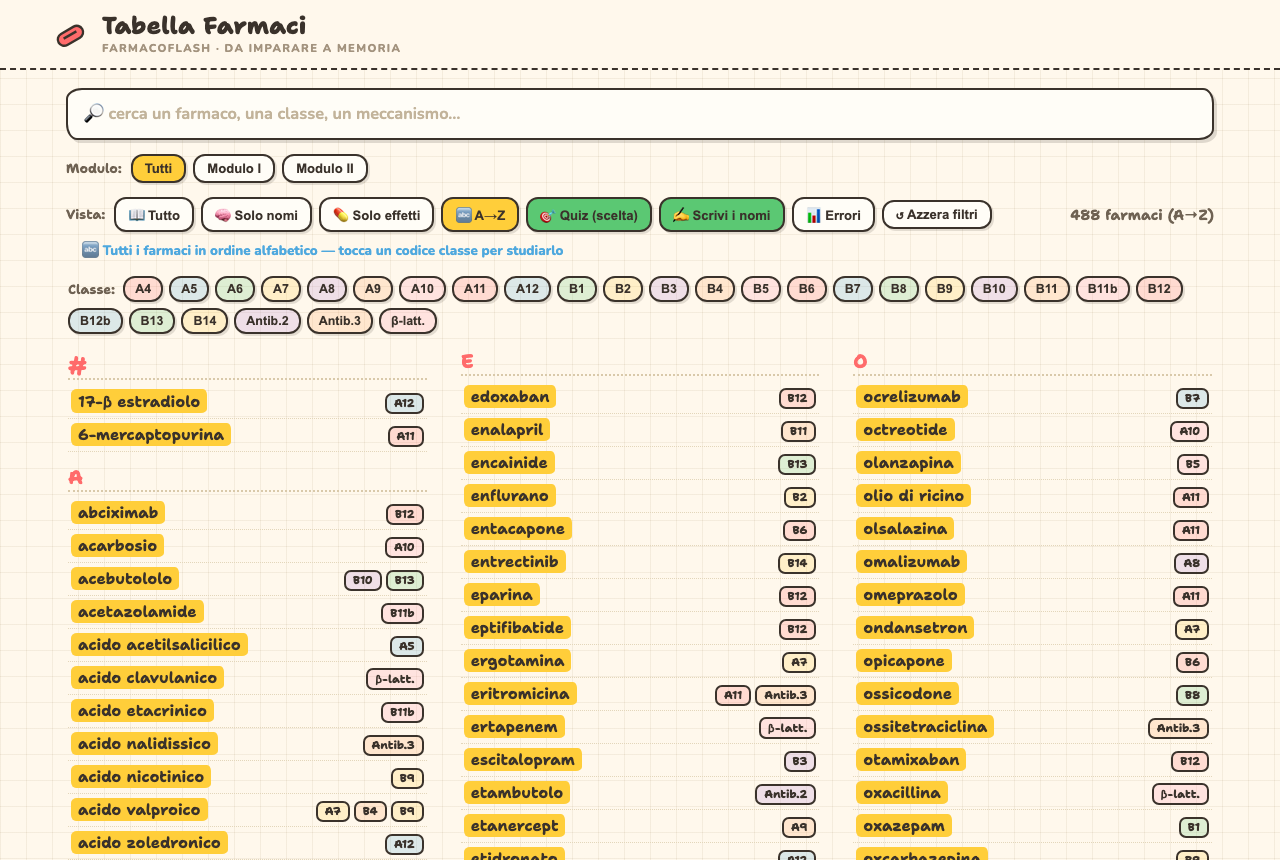
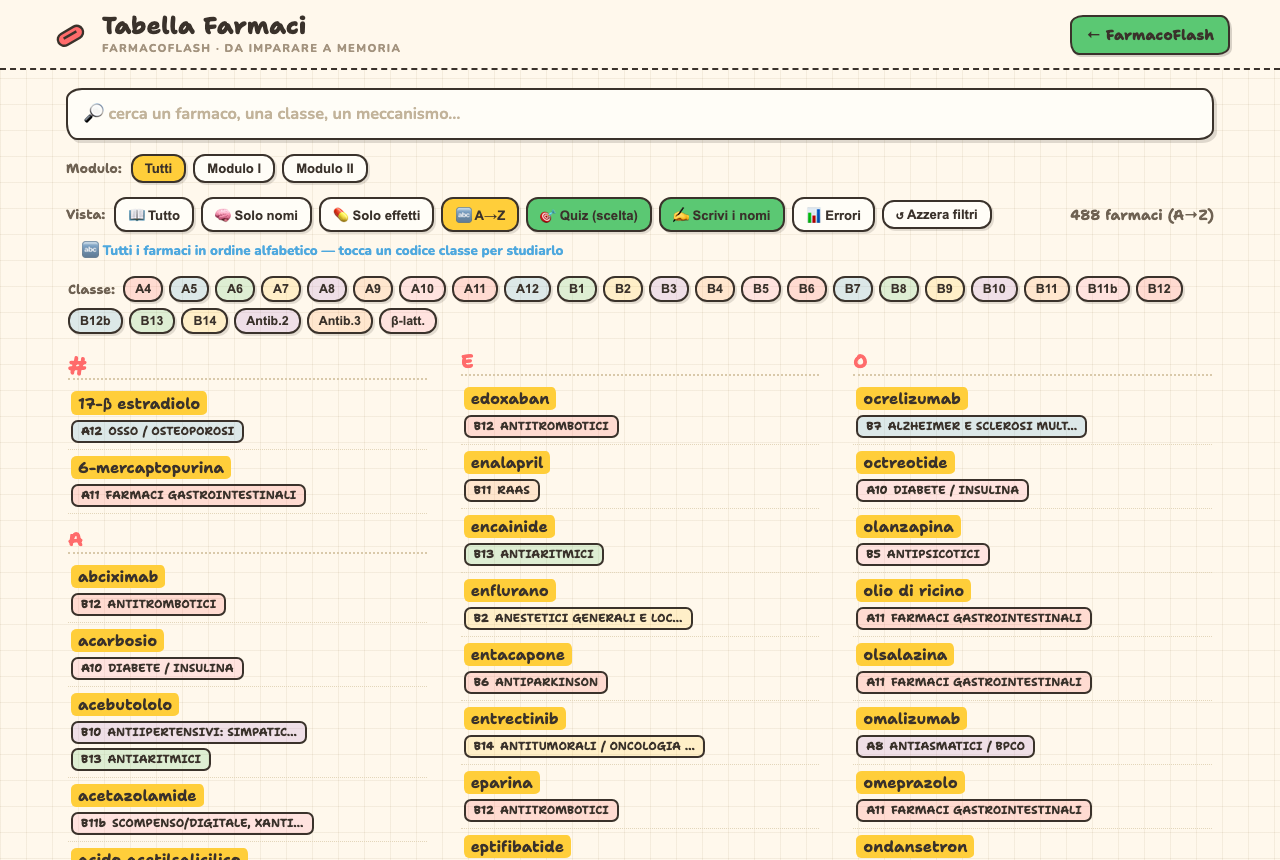
feat(tabella): nome classe leggibile (A4 GLUCOCORTICOIDI) + pulsante torna a FarmacoFlash
- Colonna Classe: il nome della classe ora e ben leggibile sotto il codice (ink-soft .86rem invece di grigio chiaro minuscolo) -> es. 'A4 GLUCOCORTICOIDI'
- Rubrica A->Z: ogni chip mostra codice + nome classe (es. 'A12 OSSO / OSTEOPOROSI'), non solo il codice
- Nuovo pulsante fisso '<- FarmacoFlash' nell'header sticky: torna all'app da qualsiasi punto (coperto solo dal quiz)
- Screenshot guida 09/10/14 aggiornati

diff --git a/Tabella-Farmaci.html b/Tabella-Farmaci.html
@@ -32,7 +32,9 @@ body{font-family:var(--font-body);font-weight:700;color:var(--ink);
   background-size:26px 26px;
   -webkit-text-size-adjust:100%;padding-bottom:40px}
 header{position:sticky;top:0;z-index:30;background:rgba(255,248,236,.97);-webkit-backdrop-filter:blur(10px);backdrop-filter:blur(10px);border-bottom:2.5px dashed var(--ink);padding:14px max(16px,env(safe-area-inset-left)) 12px}
-.hwrap{max-width:1180px;margin:0 auto}
+.hwrap{max-width:1180px;margin:0 auto;display:flex;align-items:center;justify-content:space-between;gap:12px}
+.backapp{font-family:var(--font-display);font-weight:800;font-size:.9rem;background:var(--green);color:var(--ink);border:2.5px solid var(--ink);border-radius:13px 9px 12px 9px/9px 12px 9px 13px;padding:8px 14px;text-decoration:none;box-shadow:2px 2px 0 rgba(58,50,43,.2);white-space:nowrap;transition:transform .14s var(--spring)}
+.backapp:hover{transform:translate(-1px,-2px);background:#6fd488}
 .brand{display:flex;align-items:center;gap:12px}
 .mk{width:40px;height:40px;flex:0 0 auto}
 h1{font-family:var(--font-display);font-weight:800;font-size:1.5rem;margin:0;line-height:1}
@@ -57,7 +59,7 @@ tbody td{border-bottom:1.5px dotted #d9c9aa;padding:10px 13px;font-size:.9rem;ve
 tbody tr:hover{background:#fffaf0}
 .c-cls{white-space:nowrap}
 .dchip{display:inline-block;font-family:var(--font-display);font-weight:800;font-size:.72rem;padding:2px 8px;border-radius:9px;border:2px solid var(--ink);color:var(--ink);margin-right:6px}
-.c-cls small{color:var(--muted);font-weight:800;font-size:.74rem;display:block;margin-top:3px;max-width:160px;white-space:normal}
+.c-cls small{color:var(--ink-soft);font-weight:800;font-size:.86rem;display:block;margin-top:5px;max-width:200px;white-space:normal;line-height:1.22}
 .c-name{font-family:var(--font-display);font-weight:700;font-size:.98rem;color:var(--ink);min-width:180px;max-width:250px}
 .drugtags{display:flex;flex-wrap:wrap;gap:5px 6px;margin-top:8px}
 body.m-nomi .drugtags{gap:7px 8px;margin-top:10px}
@@ -72,11 +74,12 @@ body.m-rubrica .tbl-wrap table{display:none}
 body.m-rubrica #rubrica{display:block;column-width:330px;column-gap:34px;padding:6px 2px 24px}
 .rb-group{break-inside:avoid;margin:0 0 12px}
 .rb-letter{font-family:var(--font-display);font-weight:800;font-size:1.2rem;color:var(--red);margin:4px 0 5px;border-bottom:2px dotted #d9c9aa;break-after:avoid}
-.rb-row{display:flex;align-items:baseline;justify-content:space-between;gap:10px;padding:4px 3px;border-bottom:1.5px dotted #e3d6ba;break-inside:avoid}
-.rb-name{font-family:var(--font-display);font-weight:700;font-size:.96rem;color:var(--ink);background:var(--yellow);border-radius:6px 4px 6px 5px/5px 6px 4px 6px;padding:1px 7px}
+.rb-row{padding:6px 3px;border-bottom:1.5px dotted #e3d6ba;break-inside:avoid}
+.rb-name{display:inline-block;font-family:var(--font-display);font-weight:700;font-size:.96rem;color:var(--ink);background:var(--yellow);border-radius:6px 4px 6px 5px/5px 6px 4px 6px;padding:1px 7px}
 .rb-name mark{background:#ffcf2e;padding:0}
-.rb-cls-wrap{display:flex;gap:4px;flex-wrap:wrap;justify-content:flex-end}
-.rb-cls{font-family:var(--font-display);font-weight:800;font-size:.7rem;padding:1px 7px;border-radius:7px;border:2px solid var(--ink);color:var(--ink);text-decoration:none;white-space:nowrap;transition:transform .12s}
+.rb-cls-wrap{display:flex;gap:4px;flex-wrap:wrap;margin-top:5px}
+.rb-cls{font-family:var(--font-display);font-weight:700;font-size:.72rem;padding:2px 8px;border-radius:7px;border:2px solid var(--ink);color:var(--ink);text-decoration:none;white-space:nowrap;transition:transform .12s;line-height:1.3}
+.rb-cls b{font-weight:800;margin-right:2px}
 .rb-cls:hover{transform:translateY(-1px);background:#fff3d6}
 .c-mecc,.c-ind,.c-adr{color:var(--ink-soft);font-weight:600;max-width:235px}
 .mod-pill{display:inline-block;font-size:.66rem;font-weight:800;padding:1px 6px;border-radius:7px;border:1.5px solid var(--ink);margin-left:6px;color:var(--ink)}
@@ -163,6 +166,7 @@ body.m-all tbody tr.dr:hover{background:#fff3d6}
     <svg class="mk" viewBox="0 0 44 44" fill="none"><rect x="7" y="16" width="30" height="14" rx="7" transform="rotate(-30 22 22)" fill="#ff6b6b" stroke="#3a322b" stroke-width="2.6"/><line x1="15" y1="26" x2="29" y2="18" stroke="#3a322b" stroke-width="2.6"/></svg>
     <div><h1>Tabella Farmaci</h1><div class="sub">FarmacoFlash · da imparare a memoria</div></div>
   </div>
+  <a class="backapp" href="Flashcard-Farmacologia.html" title="Torna a FarmacoFlash">← FarmacoFlash</a>
 </div></header>
 <main>
   <input class="search" id="q" type="search" autocomplete="off" placeholder="🔎 cerca un farmaco, una classe, un meccanismo…">
@@ -291,7 +295,7 @@ function renderRubrica(){
   $('#rubrica').innerHTML = order.map(letter=>{
     const rows=groups[letter].map(dn=>{
       const seen={}, chips=sel(dn).filter(r=>seen[r.code]?false:(seen[r.code]=1))
-        .map(r=>'<a class="rb-cls" href="Flashcard-Farmacologia.html#front='+esc(r.id)+'" style="background:'+deckColor(r.deck)+'33" title="'+esc(r.title)+'">'+esc(r.code)+'</a>').join('');
+        .map(r=>{const nm=r.title.length>26?r.title.slice(0,25)+'…':r.title; return '<a class="rb-cls" href="Flashcard-Farmacologia.html#front='+esc(r.id)+'" style="background:'+deckColor(r.deck)+'33" title="'+esc(r.title)+'"><b>'+esc(r.code)+'</b> '+esc(nm)+'</a>';}).join('');
       return '<div class="rb-row"><span class="rb-name">'+hi(dn)+'</span><span class="rb-cls-wrap">'+chips+'</span></div>';
     }).join('');
     return '<div class="rb-group"><div class="rb-letter">'+esc(letter)+'</div>'+rows+'</div>';